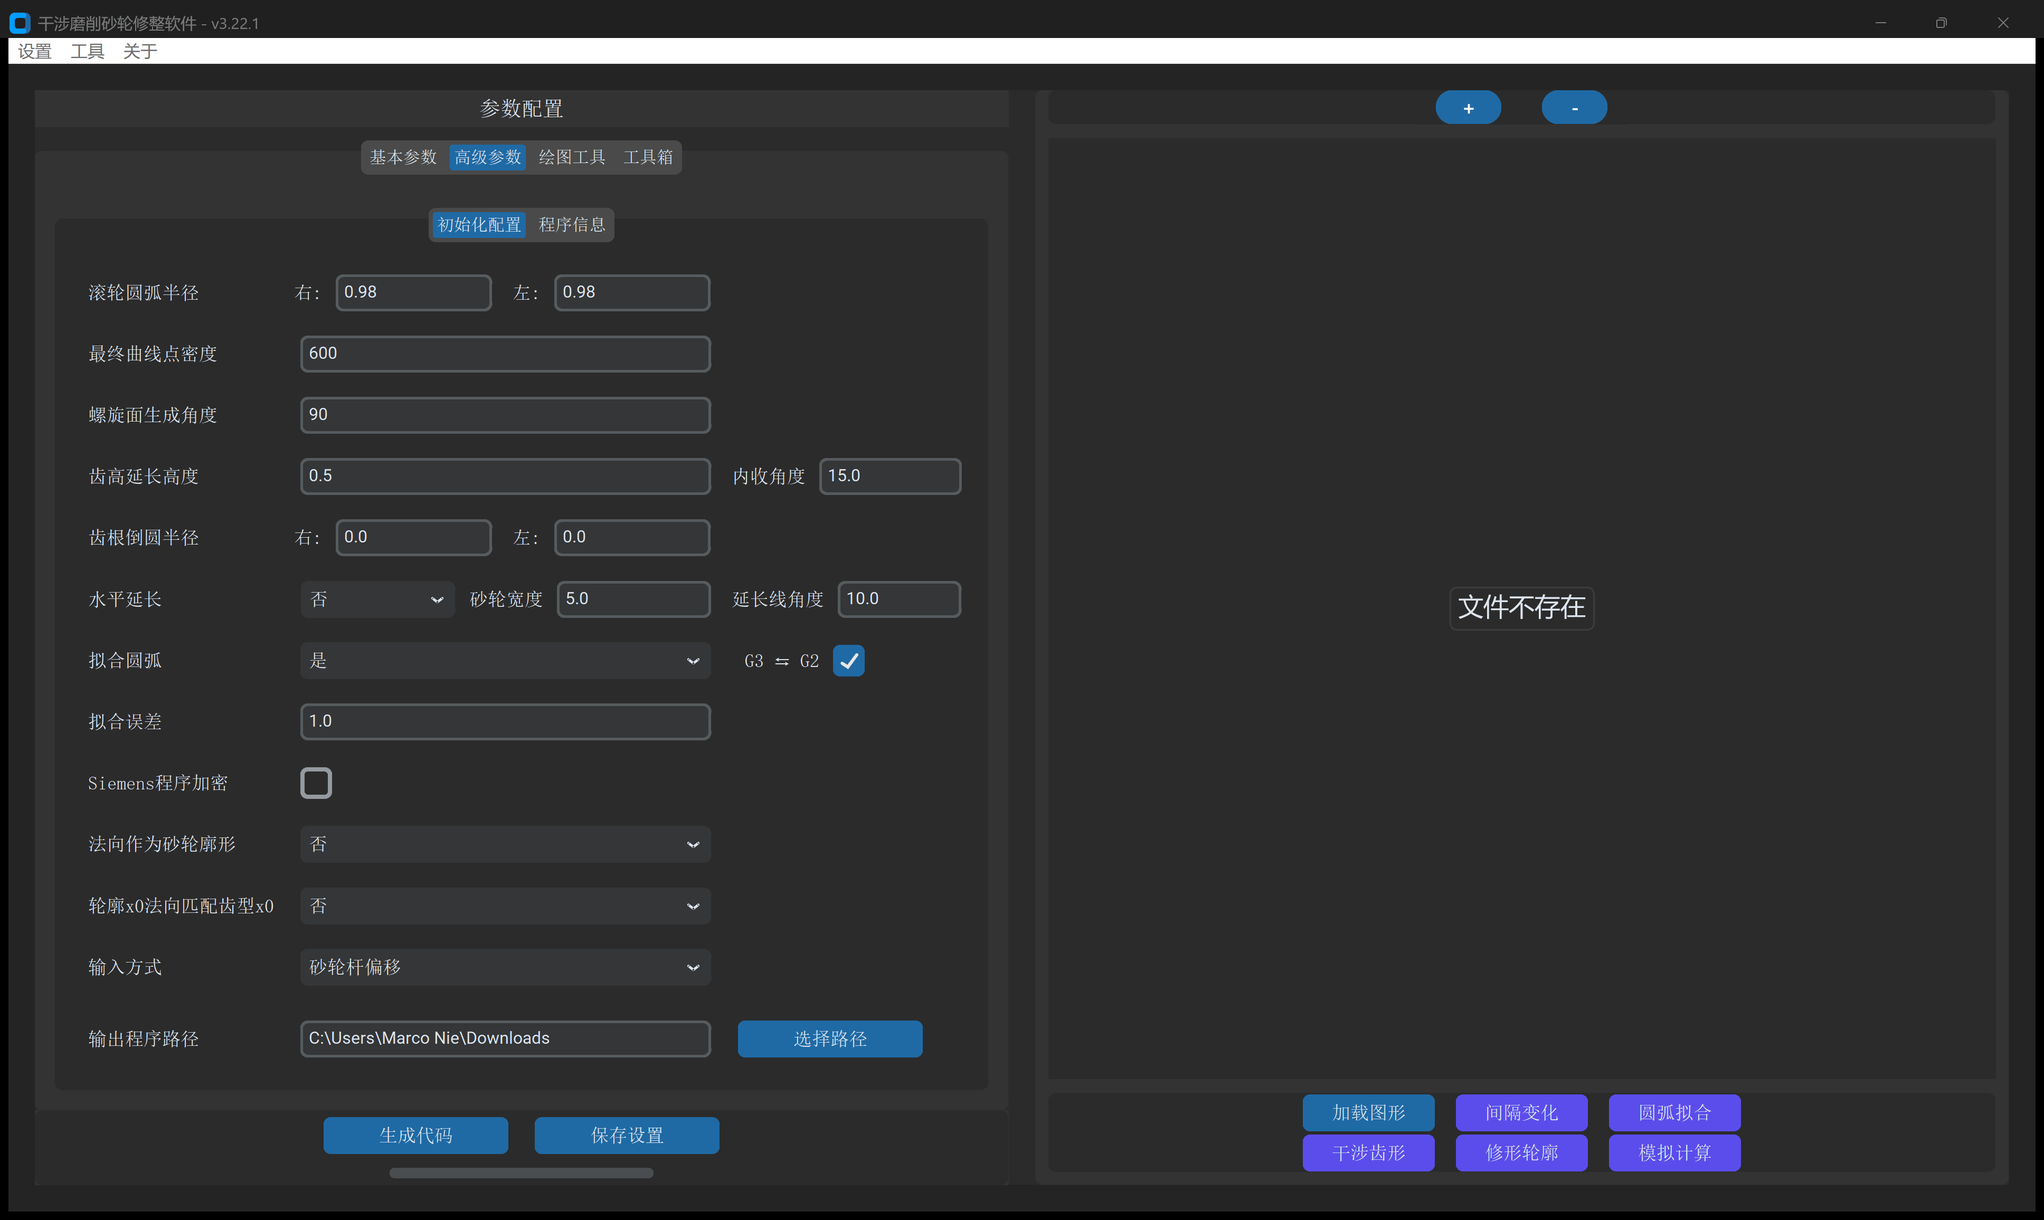
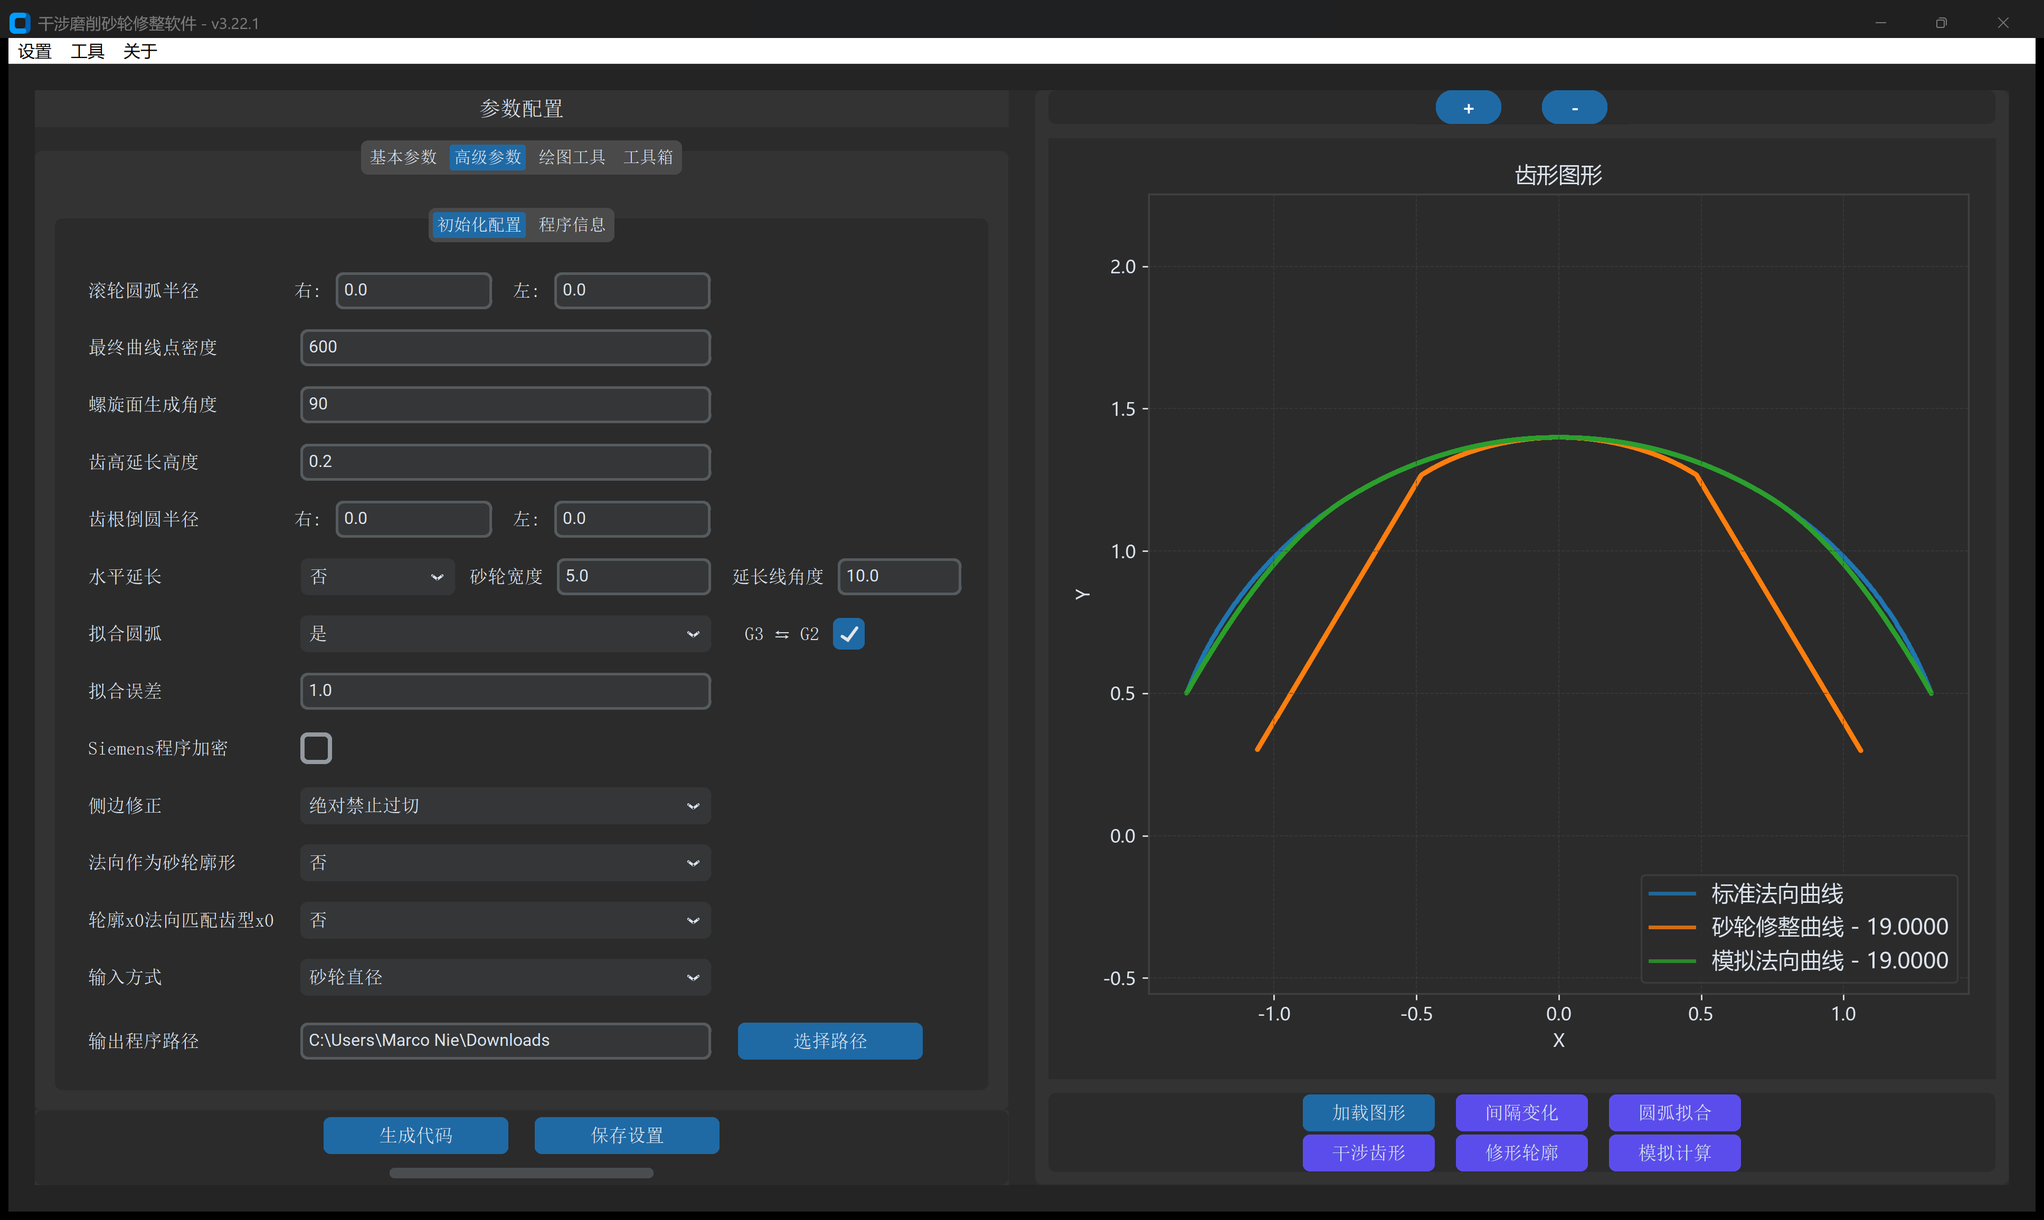
docs: adapt user guide to latest flank correction feature (commit 3d077e8)
- Document new '侧边修正' (flank correction) feature in init_config.md, explaining overcut physics, calc_flank.py solver, and 3 operational modes (保持现状 / 均衡过切和残留 / 绝对禁止过切)
- Remove obsolete '内收角度' references across quickstart, init_config, workflow cases, and summary tables
- Re-capture ui_tab2_subtab1_init_config.png from updated running software showing the new UI dropdown
- Update param_tooth_and_horizontal_extend.png schematic illustrating shoulder trimming and flank angle search
- Add engineering FAQ entry Q5 in Chapter 10 covering raceway opening overcut elimination

diff --git a/tools/update_diagram_flank.py b/tools/update_diagram_flank.py
@@ -1,0 +1,90 @@
+import matplotlib.pyplot as plt
+from matplotlib.patches import FancyArrowPatch
+import numpy as np
+import os
+
+plt.rcParams["font.sans-serif"] = ["Microsoft YaHei", "SimHei", "DejaVu Sans"]
+plt.rcParams["axes.unicode_minus"] = False
+
+IMAGES_DIR = r"C:\Users\Marco Nie\Development\WorkProgram\InterferenceGrindingDressing-UserGuide\images"
+
+C_NAVY = "#1f4e79"
+C_BLUE = "#2563eb"
+C_RED = "#dc2626"
+C_GREEN = "#16a34a"
+C_PURPLE = "#7c3aed"
+C_MUTED = "#64748b"
+C_DARK = "#1e293b"
+
+def dim_arrow(ax, p1, p2, text, color=C_RED, text_offset=(0, 0), fontsize=8.0):
+    ax.annotate("", xy=p1, xytext=p2,
+                arrowprops=dict(arrowstyle="<->", color=color, lw=1.2, shrinkA=0, shrinkB=0))
+    mid = ((p1[0] + p2[0]) / 2 + text_offset[0], (p1[1] + p2[1]) / 2 + text_offset[1])
+    ax.text(mid[0], mid[1], text, color=color, fontsize=fontsize, fontweight="bold",
+            ha="center", va="center", bbox=dict(boxstyle="square,pad=0.15", fc="white", ec="none"))
+
+fig, (ax1, ax2) = plt.subplots(1, 2, figsize=(10.2, 4.2), facecolor="white")
+for ax in (ax1, ax2):
+    ax.set_facecolor("#fbfcfe")
+    ax.grid(True, ls="--", alpha=0.35)
+
+# Subplot 1: 侧边修正与齿高延长
+ax1.set_title("【齿高延长】与【侧边修正】消除干涉过切机理", fontsize=9.8, fontweight="bold", color=C_DARK)
+x_base = np.linspace(0, 2.0, 100)
+y_base = -2.5 * np.cos(0.55 * x_base)
+ax1.plot(x_base, y_base, color=C_BLUE, lw=2.4, label="接触包络段 (理论接触线)")
+
+# End of base: (2.0, y_base[-1]) = (2.0, -1.134)
+y_top = y_base[-1] + 1.1
+
+# Mode 0: 保持现状 (不截断，从 x=2.0 延长)
+ax1.plot([2.0, 2.65], [y_base[-1], y_top], color=C_MUTED, lw=2.0, ls="--", label="Mode 0: 保持现状 (无截断, 贴近切线)")
+
+# Mode 1: 均衡过切和残留 (截断肩部 t1=0.25)
+x_t1 = 1.75
+y_t1 = -2.5 * np.cos(0.55 * x_t1)
+ax1.plot([x_t1, 2.2], [y_t1, y_top], color=C_PURPLE, lw=2.2, label="Mode 1: 均衡过切与残留 (截断肩部 t1)")
+
+# Mode 2: 绝对禁止过切 (截断肩部 t2=0.5)
+x_t2 = 1.50
+y_t2 = -2.5 * np.cos(0.55 * x_t2)
+ax1.plot([x_t2, 1.85], [y_t2, y_top], color=C_RED, lw=2.4, label="Mode 2: 绝对禁止过切 (截断肩部 t2)")
+
+# Mark shoulder trim points
+ax1.scatter([2.0, x_t1, x_t2], [y_base[-1], y_t1, y_t2], color=[C_MUTED, C_PURPLE, C_RED], s=35, zorder=5)
+
+# Dimension arrows
+dim_arrow(ax1, (2.85, y_base[-1]), (2.85, y_top), "齿高延长 $\\Delta H$", color=C_DARK, text_offset=(0.6, 0), fontsize=8.0)
+dim_arrow(ax1, (x_t2, -2.85), (2.0, -2.85), "肩部截断量 $t$", color=C_RED, text_offset=(0, -0.22), fontsize=8.0)
+
+ax1.axvline(2.0, color=C_MUTED, ls=":", lw=1.0, alpha=0.5)
+ax1.axvline(x_t2, color=C_RED, ls=":", lw=1.0, alpha=0.5)
+
+ax1.text(0.15, -0.15, "侧边角度 $a$ 由模拟反求自动二分搜索\n(最大 90° 垂直，不反向偏折)",
+         color=C_NAVY, fontsize=7.8, bbox=dict(boxstyle="round,pad=0.3", fc="#eff6ff", ec=C_BLUE, lw=0.8))
+
+ax1.set_xlim(-0.2, 3.8)
+ax1.set_ylim(-3.3, 0.4)
+ax1.legend(loc="lower right", fontsize=7.6)
+
+# Subplot 2: 水平延长、砂轮宽度与延长线角度
+ax2.set_title("【水平延长】、【砂轮宽度】$B$ 与【延长线角度】$\\alpha_{\\text{ext}}$", fontsize=9.8, fontweight="bold", color=C_DARK)
+tx = np.linspace(-2.0, 2.0, 120)
+ty = -2.2 * np.cos(0.65 * tx)
+ax2.plot(tx, ty, color=C_BLUE, lw=2.4, label="工作齿形区")
+# 水平延长 0 度
+ax2.plot([-3.6, -2.0], [ty[0], ty[0]], color=C_GREEN, lw=2.0, ls="--", label="延长线角度 = 0° (水平延长)")
+ax2.plot([2.0, 3.6], [ty[-1], ty[-1]], color=C_GREEN, lw=2.0, ls="--")
+# 延长线角度 > 0 度
+ax2.plot([-3.6, -2.0], [ty[0] - 0.55, ty[0]], color=C_RED, lw=2.4, label="延长线角度 > 0° (向下倾斜避空)")
+ax2.plot([2.0, 3.6], [ty[-1], ty[-1] - 0.55], color=C_RED, lw=2.4)
+dim_arrow(ax2, (-3.6, -2.65), (3.6, -2.65), "砂轮宽度 $B$ (总宽恒定匹配)", color=C_NAVY, text_offset=(0, -0.28), fontsize=8.5)
+ax2.set_xlim(-4.2, 4.2)
+ax2.set_ylim(-3.2, -0.1)
+ax2.legend(loc="upper center", fontsize=7.8)
+
+plt.tight_layout()
+out_path = os.path.join(IMAGES_DIR, "param_tooth_and_horizontal_extend.png")
+fig.savefig(out_path, dpi=180, bbox_inches="tight")
+plt.close(fig)
+print(f"Saved updated diagram: {out_path}")

diff --git a/3_advanced_params/init_config.md b/3_advanced_params/init_config.md
@@ -1,6 +1,6 @@
 # 3.1 初始化配置：滚轮补偿、齿根延长与圆弧拟合
 
-本节逐项详解 **`高级参数 -> 初始化配置`** 子标签页中的几何修整补偿参数与离散圆弧拟合控制项。
+本节逐项详解 **`高级参数 -> 初始化配置`** 子标签页中的几何修整补偿参数、侧边过切修正及离散圆弧拟合控制项。
 
 ---
 
@@ -39,18 +39,40 @@
 
 ---
 
-## 三、`齿高延长高度`、`内收角度` 与 `水平延长`
+## 三、`齿高延长`、`侧边修正`（消除滚道干涉过切）与 `水平延长`
 
-为了确保砂轮在磨削工件齿槽时，砂轮根部与两侧端面不会与工件非磨削表面发生机械刮蹭，软件提供了灵活的齿端延长与两侧避空构造功能：
+在内螺纹大导程干涉磨削中，为了确保砂轮有效修穿工件全齿深，同时彻底消除滚道孔口两侧因干涉运动扫出的过切缺陷，软件提供了智能化的侧边自适应修正体系：
 
-![齿高延长高度、内收角度与水平延长参数几何图解](../images/param_tooth_and_horizontal_extend.png)
+![齿高延长高度、侧边修正与水平延长参数几何图解](../images/param_tooth_and_horizontal_extend.png)
 
-### 1. `齿高延长高度` 与 `内收角度`
+### 1. `齿高延长高度`（单位：$\text{mm}$）
 
-* **`齿高延长高度`** ($\Delta H$，单位：$\text{mm}$)：在理论齿形工作高度以外，沿径向继续延伸修整的高度余量（如 `0.1` ~ `0.5 mm`），确保金刚石滚轮彻底修穿砂轮外缘或根部；
-* **`内收角度`** ($\alpha_{\text{in}}$，单位：`$^\circ$`，默认 `0` ~ `5`）：在延长段内，使延长线向齿体中心内偏 $\alpha_{\text{in}}$ 度。设置 `3°` ~ `5°` 的内收角可有效防止延长段侧壁擦伤工件齿顶圆。
+* **工程定义**：在理论齿形工作高度以外沿齿高方向继续延伸修整的高度余量 $\Delta H$。
+* **参数设定**：
+  * 设置为 **`0`**：砂轮修整齿高与输入齿型的标准法向齿形高度严格一致；
+  * 设置为 **`0.1` ~ `0.5 mm`**（推荐）：在齿高方向继续向上延伸一段，确保金刚石滚轮彻底修穿砂轮外缘，避免砂轮齿顶在磨削时因未修整而形成未切削台阶。砂轮端点高度由设定的齿高延长高度确定。
 
-### 2. `水平延长`（`否` / `是`）、`砂轮宽度` 与 `延长线角度`
+### 2. `侧边修正`（Flank Correction - 消除干涉导致滚道两侧过切）
+
+* **工程痛点与产生机理**：
+  在干涉磨削时（尤其是内螺纹工件导程较大、砂轮安装角与螺旋升角存在夹角差，或砂轮直径相对螺母孔径较大时），三维空间微分包络接触线往往仅覆盖砂轮近齿顶附近的一段区域。接触段两侧“肩部”在砂轮高速回转并沿工件螺旋线作相对运动时，会扫入工件螺旋槽孔口两侧，造成**滚道两侧孔口过度过切（Overcut）**，破坏密封槽或减小承载接触面。
+* **自适应优化内核（`calc_flank.py`）**：
+  软件内置了先进的**“截断肩部 + 虚拟磨削仿真反求 + 二分搜索”**闭环修正算法：
+  1. **肩部智能截断**：从理论接触段两端向内截断指定量 $t$（按 $X$ 轴距离计算）；
+  2. **自适应延伸角度**：在截断点处以角度 $a$（与水平方向夹角，最大 $90^\circ$ 垂直，绝不反向偏折）引出直线延伸到原有深度；
+  3. **二分闭环搜索**：在多轮迭代中，系统自动调用虚拟磨削求解器反算成形滚道截面，并与标准法向曲线进行高精度误差比对，自动搜索出最优截断量 $t$ 与最佳侧边角度 $a$。
+* **三大修正模式选用指南**：
+  * **`保持现状`（默认）**：
+    不截断原始包络计算曲线，侧边延长线角度自动选择在过切最少时最贴近切线的值。适用于小导程或干涉不明显的标准工件。
+  * **`均衡过切和残留`（推荐平衡模式）**：
+    智能截断砂轮肩部，使滚道每侧的最大过切量与最大残留量大致相当（即使 $\max(\text{过切}, \text{残留})$ 达到极小值）。适用于绝大多数大导程滚珠丝杠螺母与汽车转向套筒，在保证滚道接触面积的同时压制孔口过切。
+  * **`绝对禁止过切`（严苛高精模式）**：
+    以能够将过切完全消除至容差范围内（$\le 0.5\ \mu\text{m}$）的最小截断量截断砂轮肩部，滚道孔口侧边保留微量安全残留。适用于图纸严格要求“零过切/欠切允许”的军工航天精密传动件。
+* **注意事项**：
+  * 由于截断量与角度通过高精度虚拟磨削仿真进行多轮二分搜索，启用修正模式 1 或 2 时计算耗时会微幅增加（通常约 1~3 秒）；
+  * 转子齿型不适用侧边修正（转子型线直接沿切线延长）。
+
+### 3. `水平延长`（`否` / `是`）、`砂轮宽度` 与 `延长线角度`
 
 当需要金刚石滚轮顺便修整砂轮左右两侧端面（或齿根圆柱外缘）时，将 **`水平延长`** 设为 **`是`**：
 
@@ -75,4 +97,3 @@
 * **`拟合误差`**（单位：$\mu\text{m}$，即 $0.001\text{ mm}$，默认值 `1`）：
   * 控制拟合出的 `G2`/`G3` 圆弧与理论高密度包络点云之间的**最大法向残差上限**。
   * **工程建议**：精密丝杠、转子与蜗杆磨削请保持在 **`0.5` ~ `1.5` ($\mu\text{m}$)** 之间（如 `SRM-300F` 转子设为 `0.5`，常规丝杠螺母设为 `1`）。切勿将其设得过大（如 $> 5\ \mu\text{m}$），否则会导致圆弧段过于粗糙并产生分段折痕。
-

diff --git a/1_getting_started/quickstart.md b/1_getting_started/quickstart.md
@@ -55,7 +55,8 @@
 2. 切换至左侧 **`高级参数`** ➔ **`初始化配置`** 子标签页：
    * **`滚轮圆弧半径`**：`右:` 输入 `0.2`，`左:` 输入 `0.2`；
    * **`最终曲线点密度`**：保持 `600`；**`螺旋面生成角度`**：保持 `90`；
-   * **`齿高延长高度`**：输入 `0.1`，**`内收角度`**：输入 `5`；
+   * **`齿高延长高度`**：输入 `0.1`；
+   * **`侧边修正`**：选择 `保持现状`（若大导程工件滚道孔口存在过切，可切换为 `均衡过切和残留` 或 `绝对禁止过切`）；
    * **`齿根倒圆半径`**：`右:` 输入 `0.2`，`左:` 输入 `0.2`；
    * **`水平延长`**：选择 `否`；
    * **`拟合圆弧`**：选择 `是`（不勾选 `G3 ⇆ G2`），**`拟合误差`**：保持 `1`；
@@ -70,9 +71,12 @@
 
 1. 点击左下角主按钮 **`生成代码`**；
 2. 经过约 2~5 秒的空间螺旋面啮合包络求解与双圆弧拟合，弹出成功提示后，依次点击右下角 6 个视图按钮检查计算质量：
-   * **`加载图形`**：确认导入的 `profile.dxf` 原始双圆弧齿形无断点、方向朝向正确；
-   * **`间隔变化`**：查看从最小砂轮直径到最大砂轮直径每隔 `0.1 mm` 变化的廓形族（内侧红线代表最大偏移/最小砂轮，外侧灰线代表最小偏移/最大砂轮）；
-   * **`圆弧拟合`**：上方子图显示多段 G2/G3 圆弧切点分布，下方子图显示实际拟合残差——确认所有残差峰值均严格控制在 `±1 μm` 红虚线包络带内；
+   * **`加载图形`**：确认导入的原始齿形连续平滑、左右对称；
+   * **`间隔变化`**：查看相邻砂轮直径档位的修整曲线法向变化量，确认曲线平顺无奇异跳跃；
+   * **`圆弧拟合`**：审验多色相切圆弧（G2/G3）与直线分段分布及图例中的各段精确拟合半径；
+   * **`干涉齿形`**：查看包络干涉修正后的净砂轮截面与标准法向齿形包络相切状态；
+   * **`修形轮廓`**：检视叠加滚轮半径后的金刚石修整滚轮刀心走刀轨迹，确保齿底交汇顺畅；
+   * **`模拟计算`**：复核三线同屏叠加（标准法向、砂轮修整与模拟磨削），确认模拟法向曲线与标准理论曲线严丝合缝重叠，证明大导程空间螺旋干涉已被完全消除！
    * **`干涉齿形`**：检视去除干涉后的实际砂轮截形（蓝色实线）与理论目标齿形之间的空间包络修正量；
    * **`修形轮廓`**：查看叠加了左右 `0.2 mm` 金刚石滚轮半径偏置后的 CNC 修整刀位轨迹（左修整红线 + 右修整蓝线）；
    * **`模拟计算`**：检查最终生成的 G 代码段在每个直径阶梯下的左右修整走刀路径。

diff --git a/10_troubleshooting/README.md b/10_troubleshooting/README.md
@@ -41,6 +41,10 @@
   1. 先用 **`工具箱 -> DXF 处理 -> DXF 变换`**，将分度圆/中径平移至 $Y = 0$，齿槽中心平移至 $X = 0$；
   2. 再用 **`工具箱 -> DXF 处理 -> DXF 离散化`**（或 **`DXF 拟合圆弧`**），将 `曲线方向` 设为 `自动识别`（或 `升序 - X轴`），一键将其重构为干净、有序、连续的标准 DXF 曲线。
 
+### Q5：内螺纹大导程工件（如双圆弧滚珠丝杠螺母）磨削后，为什么滚道孔口两侧会出现明显的“过切”或擦伤？如何彻底消除？
+* **解答**：这是大导程干涉磨削的固有运动学现象。因安装角与升角存在差异或砂轮直径相对较大，空间接触线通常仅覆盖砂轮齿顶附近，接触段两端的“肩部”在砂轮高速回转并沿工件螺旋线作相对运动时，会扫入滚道孔口两侧造成微量过切。
+  * **消除对策**：在最新版软件中，进入 **`高级参数 -> 初始化配置`**，将 **`侧边修正`** 从默认的 `保持现状` 切换为 **`均衡过切和残留`**（推荐）或 **`绝对禁止过切`**。系统会自动启动内置的二分搜索内核（`calc_flank.py`），利用虚拟磨削反求算法智能截断砂轮肩部并自动选取最优侧边倾角，将滚道孔口过切严格消除至微米级容差范围内！
+
 ---
 
 ## 三、技术支持与服务渠道

diff --git a/9_workflows_cases/case1_double_arc_nut.md b/9_workflows_cases/case1_double_arc_nut.md
@@ -20,7 +20,7 @@
 | | `输入方式` 与范围 | `砂轮杆偏移`：`13.2` ~ `16.0 mm` | 对应新砂轮与报废砂轮的中心偏移极限。 |
 | | `砂轮直径间隔` / `砂轮安装角` | `0.1 mm` / **`3.5°`** | 因受螺母孔长与接长杆防撞限制，实际安装角设为 `3.5°`。 |
 | **`高级参数`** | `滚轮圆弧半径` (`右:` / `左:`) | `0.98 mm` / `0.98 mm` | 金刚石滚轮实测圆弧半径。 |
-| | `齿高延长高度` / `内收角度` | `0.5 mm` / `15.0°` | 延长切线高度与内收角度。 |
+| | `齿高延长高度` / `侧边修正` | `0.5 mm` / **`均衡过切和残留`** | 齿端向上延长 0.5 mm 并启用侧边修正，自动消除大导程螺母滚道孔口过切。 |
 | | `齿根倒圆半径` (`右:` / `左:`) | `0.98 mm` / `0.98 mm` | 自动匹配滚轮半径，防止齿根啃切。 |
 | | `水平延长` / `砂轮宽度` / `延长线角度` | `是` / `5.0 mm` / `10.0°` | 修整砂轮端面斜坡。 |
 | | `拟合圆弧` / `G3 ⇆ G2` / `拟合误差` | `是` / 勾选 / `1.0 μm` | 逆向圆弧插补极性补偿与高精度逼近。 |

diff --git a/3_advanced_params/README.md b/3_advanced_params/README.md
@@ -12,7 +12,7 @@
 
 - **左右 `滚轮圆弧半径`**：支持非对称或双修整轮独立偏置。
 - **`最终曲线点密度` & `螺旋面生成角度`**：控制离散点云采样密度与圆周啮合求解范围。
-- **`齿高延长高度` & `内收角度`**：确保滚轮完全修穿砂轮齿顶并避免侧壁刮蹭。
+- **`齿高延长高度` & `侧边修正`**：确保滚轮完全修穿砂轮齿顶，并提供 3 种模式（`保持现状` / `均衡过切和残留` / `绝对禁止过切`）通过二分搜索智能消除滚道孔口干涉过切。
 - **`齿根倒圆半径` 防过切法则**：自动钳制保证 $R_{\text{root}} \ge R_{\text{dress}}$，杜绝啃刀事故。
 - **`水平延长`**：一键修整砂轮两侧水平端面或斜坡端面（`延长线角度`）。
 - **`拟合圆弧` & `拟合误差`**：自适应双切圆弧拟合，输出 `G2`/`G3` 插补指令。

diff --git a/9_workflows_cases/case2_planetary_triangle.md b/9_workflows_cases/case2_planetary_triangle.md
@@ -19,7 +19,7 @@
 | | `砂轮直径间隔` / `砂轮安装角` | `0.1 mm` / **`5.9061°`** | 直接按理论螺旋升角安装（深孔倾角安全）。 |
 | **`高级参数`** | `滚轮圆弧半径` (`右:` / `左:`) | `0.08 mm` / `0.08 mm` | 超小刀尖半径滚轮，精确修出 $R0.08$ 牙底细节。 |
 | | `齿根倒圆半径` (`右:` / `左:`) | `0.08 mm` / `0.08 mm` | 自动匹配滚轮半径防过切。 |
-| | `齿高延长高度` / `内收角度` | `0.15 mm` / `5.0°` | 切线延长并内收防擦牙顶。 |
+| | `齿高延长高度` / `侧边修正` | `0.15 mm` / **`保持现状`** | 切线方向齿高延长 0.15 mm，侧边修正保持现状。 |
 | | `拟合圆弧` / `拟合误差` | `是` / `1.0 μm` | 输出平顺圆弧代码。 |
 | | `程序模式` | **`模式-0`** | 西门子数控宏程序。 |
 
